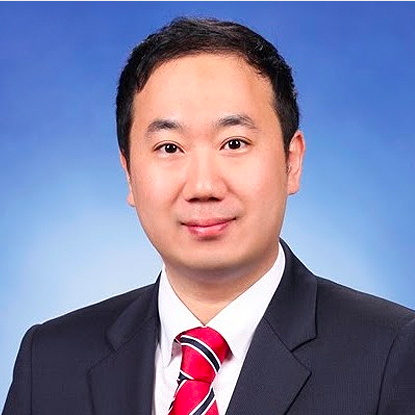
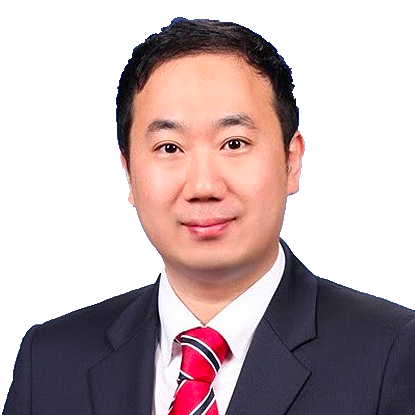
members, details

diff --git a/sub2.html b/sub2.html
@@ -13,6 +13,7 @@
     <link rel="stylesheet" href="https://cdnjs.cloudflare.com/ajax/libs/font-awesome/5.8.2/css/all.min.css" />
     <script src="https://cdnjs.cloudflare.com/ajax/libs/aos/2.3.4/aos.js"></script>
     <link rel="stylesheet" href="https://cdnjs.cloudflare.com/ajax/libs/aos/2.3.4/aos.css" />
+    <link rel="icon" href="images/favicon.png">
     <title>라온데이터</title>
 
     <script>
@@ -41,8 +42,10 @@
                     <div>
                         <img src="./images/team1.png" alt="">
                         <div class="segment">
-                            <p>Seong Choi<br /><span>CEO</span></p>
-                            <p>성균관대 석사과정</p>
+                            <p>Seong Choi</p>
+                            <p>CEO<br />
+                                AI for Medical Imaging<br />
+                                공학석사</p>
                             <div class="arrow">
                                 <img src="./images/arrow.png" alt="">
                             </div>
@@ -51,10 +54,12 @@
                         </div>
                     </div>
                     <div>
-                        <img src="./images/team2.png" alt="">
+                        <img src="./images/jinyoung.png" alt="">
                         <div class="segment">
-                            <p>Jinyoung Han<br /><span>CTO</span></p>
-                            <p>인공지능 기술 총괄<br />성균관대 교수</p>
+                            <p>Jinyoung Han</p>
+                            <p>CTO<br />
+                                인공지능 기술 총괄<br />
+                                성균관대 교수</p>
                             <div class="arrow">
                                 <img src="./images/arrow.png" alt="">
                             </div>
@@ -66,8 +71,8 @@
                     <div>
                         <img src="./images/team3.png" alt="">
                         <div class="segment">
-                            <p>Jeewoo Yoon<br /><span>AI Scientist</span></p>
-                            <p>성균관대 박사과정</p>
+                            <p>Jeewoo Yoon</p>
+                            <p>AI Scientist<br />Multimodal Learning<br />인공지능 기술 연구/개발</p>
                             <div class="arrow">
                                 <img src="./images/arrow.png" alt="">
                             </div>
@@ -75,39 +80,43 @@
                         </div>
                     </div>
                     <div>
-                        <img src="./images/team4.png" alt="">
+                        <img src="./images/kiwoong.png" alt="">
                         <div class="segment">
-                            <p>Honggeun Ji<br /><span>AI Engineer</span></p>
-                            <p>컴퓨터 비전(CV)</p>
+                            <p>Kiwoong Kim</p>
+                            <p>Lead SW Engineer<br />Full Stack<br />SW 개발 책임</p>
                         </div>
                     </div>
                 </div>
                 <div class="flex_box">
                     <div>
-                        <img src="./images/team5.png" alt="">
+                        <img src="./images/junseo.png" alt="">
                         <div class="segment">
-                            <p>Jina Kim<br /><span>AI Scientist</span></p>
-                            <p>자연어 처리(NLP)</p>
+                            <p>Junseo Ko</p>
+                            <p>AI Engineer<br />Computer Vision<br />인공지능 기술 개발</p>
+                            <div class="arrow">
+                                <img src="./images/arrow.png" alt="">
+                            </div>
+                            <a href="https://github.com/KorKite"></a>
                         </div>
                     </div>
                     <div>
-                        <img src="./images/team6.png" alt="">
+                        <img src="./images/yongmo.png" alt="">
                         <div class="segment">
-                            <p>Jisu Kim<br /><span>AI Engineer</span></p>
-                            <p>자연어 처리(NLP)<br />
-                                데이터 심층분석 및<br />
-                                딥러닝 모델 개발</p>
+                            <p>Yongmo Ku</p>
+                            <p>SW Engineer<br />Unity<br />클라이언트 개발</p>
                         </div>
                     </div>
                 </div>
                 <div class="flex_box">
                     <div>
-                        <img src="./images/team7.png" alt="">
+                        <img src="./images/taihu.png" alt="">
                         <div class="segment">
-                            <p>Jisu Kim<br /><span>AI Engineer</span></p>
-                            <p>자연어 처리(NLP)<br />
-                                데이터 심층분석 및<br />
-                                딥러닝 모델 개발</p>
+                            <p>Taihu Li</p>
+                            <p>AI Engineer<br />Speech Synthesis<br />인공지능 기술 개발</p>
+                            <div class="arrow">
+                                <img src="./images/arrow.png" alt="">
+                            </div>
+                            <a href="https://sites.google.com/view/taehoo-lee"></a>
                         </div>
                     </div>
                 </div>
@@ -120,15 +129,15 @@
                     <div>
                         <img src="./images/Advisors1.png" alt="">
                         <div class="segment">
-                            <p>Eunil Park<br /><span>Human-AI<br />Interaction </span></p>
-                            <p>성균관대 교수</p>
+                            <p>Eunil Park</p>
+                            <p>Human-AI Interaction</br >성균관대 교수</p>
                         </div>
                     </div>
                     <div>
-                        <img src="./images/Advisors2.png" alt="">
+                        <img src="./images/Advisors4.png" alt="">
                         <div class="segment">
-                            <p>Angel Pobil<br /><span>Human-Robot<br />Interaction</span></p>
-                            <p>Prof. at Jaume I<br />University</p>
+                            <p>Daniel Duckjin Hwang</p>
+                            <p>AI for Ophthalmology<br />한길안과병원<br/>망막 센터장</p>
                         </div>
                     </div>
                 </div>
@@ -136,15 +145,15 @@
                     <div>
                         <img src="./images/Advisors3.png" alt="">
                         <div class="segment">
-                            <p>Jungseock Joo<br /><span>Computer Vision</span></p>
-                            <p>Prof. at UCLA</p>
+                            <p>Jungseock Joo</p>
+                            <p>Computer Vision<br />UCLA 교수</p>
                         </div>
                     </div>
                     <div>
-                        <img src="./images/Advisors4.png" alt="">
+                        <img src="./images/Advisors2.png" alt="">
                         <div class="segment">
-                            <p>Daniel Duckjin Hwang<br /><span>Medical AI</span></p>
-                            <p>한길 안과병원 데이터<br />센터장</p>
+                            <p>Angel Pobil</p>
+                            <p>Human-Robot Interaction<br />Jaume I University 교수</p>
                         </div>
                     </div>
                 </div>

diff --git a/index.html b/index.html
@@ -13,6 +13,8 @@
     <link rel="stylesheet" href="https://cdnjs.cloudflare.com/ajax/libs/font-awesome/5.8.2/css/all.min.css" />
     <script src="https://cdnjs.cloudflare.com/ajax/libs/aos/2.3.4/aos.js"></script>
     <link rel="stylesheet" href="https://cdnjs.cloudflare.com/ajax/libs/aos/2.3.4/aos.css" />
+    <link rel="icon" href="images/favicon.png">
+
     <title>라온데이터</title>
 
     <script>
@@ -36,11 +38,11 @@
                     <li><a href="./index.html"><img src="./images/home.png" alt="홈" width="20"></a></li>
                 </ul>
                 <ul class="m_head_list">
-                    <li>
+                    <!-- <li>
                         <a href="./sub1.html">
                             <p>인공지능 컨설팅</p>
                         </a>
-                    </li>
+                    </li> -->
                     <li>
                         <a href="./sub2.html">
                             <p>팀</p>
@@ -139,7 +141,7 @@
             <div class="menu_box">
                 <ul class="l_menu">
                     <li><a href="./index.html">홈</a></li>
-                    <li><a href="./sub1.html">인공지능 컨설팅</a></li>
+                    <!-- <li><a href="./sub1.html">인공지능 컨설팅</a></li> -->
                     <li><a href="./sub2.html">팀</a></li>
                     <li><a href="./sub3.html">고객사</a></li>
                     <li><a href="./sub4.html">협력기관</a></li>
@@ -230,15 +232,15 @@
             <div class="left_content">
                 <div class="txt_center">
                     <h4 class="blue_g">
-                        Our Contact
+                        Contact Us
                     </h4>
                 </div>
                 <h5>라온데이터 인공지능 컨설팅 문의하기</h5>
-                <a href="./sub7.html">문의 바로가기</a>
+                <a href="mailto:contact@raondata.ai">문의 바로가기</a>
             </div>
             <div class="right_content">
                 <img src="./images/send.png" alt="문의하기">
-                <p>seongchoi@raondata.ai</p>
+                <p>contact@raondata.ai</p>
             </div>
         </div>
     </div>

diff --git a/header.html b/header.html
@@ -7,11 +7,11 @@
                 <li><a href="./index.html"><img src="./images/home.png" alt="홈" width="20"></a></li>
             </ul>
             <ul class="m_head_list">
-                <li>
+                <!-- <li>
                     <a href="./sub1.html">
                         <p>인공지능 컨설팅</p>
                     </a>
-                </li>
+                </li> -->
                 <li>
                     <a href="./sub2.html">
                         <p>팀</p>
@@ -109,7 +109,7 @@
         <div class="menu_box">
             <ul class="l_menu">
                 <li><a href="./index.html">홈</a></li>
-                <li><a href="./sub1.html">인공지능 컨설팅</a></li>
+                <!-- <li><a href="./sub1.html">인공지능 컨설팅</a></li> -->
                 <li><a href="./sub2.html">팀</a></li>
                 <li><a href="./sub3.html">고객사</a></li>
                 <li><a href="./sub4.html">협력기관</a></li>

diff --git a/sub4.html b/sub4.html
@@ -13,6 +13,7 @@
     <link rel="stylesheet" href="https://cdnjs.cloudflare.com/ajax/libs/font-awesome/5.8.2/css/all.min.css" />
     <script src="https://cdnjs.cloudflare.com/ajax/libs/aos/2.3.4/aos.js"></script>
     <link rel="stylesheet" href="https://cdnjs.cloudflare.com/ajax/libs/aos/2.3.4/aos.css" />
+    <link rel="icon" href="images/favicon.png">
     <title>라온데이터</title>
     <script>
         $(function(){

diff --git a/sub1.html b/sub1.html
@@ -13,6 +13,7 @@
     <link rel="stylesheet" href="https://cdnjs.cloudflare.com/ajax/libs/font-awesome/5.8.2/css/all.min.css" />
     <script src="https://cdnjs.cloudflare.com/ajax/libs/aos/2.3.4/aos.js"></script>
     <link rel="stylesheet" href="https://cdnjs.cloudflare.com/ajax/libs/aos/2.3.4/aos.css" />
+    <link rel="icon" href="images/favicon.png">
     <title>라온데이터</title>
 
     <script>

diff --git a/sub3.html b/sub3.html
@@ -13,6 +13,7 @@
     <link rel="stylesheet" href="https://cdnjs.cloudflare.com/ajax/libs/font-awesome/5.8.2/css/all.min.css" />
     <script src="https://cdnjs.cloudflare.com/ajax/libs/aos/2.3.4/aos.js"></script>
     <link rel="stylesheet" href="https://cdnjs.cloudflare.com/ajax/libs/aos/2.3.4/aos.css" />
+    <link rel="icon" href="images/favicon.png">
     <title>라온데이터</title>
 
     <script>

diff --git a/sub5.html b/sub5.html
@@ -13,6 +13,7 @@
     <link rel="stylesheet" href="https://cdnjs.cloudflare.com/ajax/libs/font-awesome/5.8.2/css/all.min.css" />
     <script src="https://cdnjs.cloudflare.com/ajax/libs/aos/2.3.4/aos.js"></script>
     <link rel="stylesheet" href="https://cdnjs.cloudflare.com/ajax/libs/aos/2.3.4/aos.css" />
+    <link rel="icon" href="images/favicon.png">
     <title>라온데이터</title>
 
     <script>

diff --git a/sub6.html b/sub6.html
@@ -13,6 +13,7 @@
     <link rel="stylesheet" href="https://cdnjs.cloudflare.com/ajax/libs/font-awesome/5.8.2/css/all.min.css" />
     <script src="https://cdnjs.cloudflare.com/ajax/libs/aos/2.3.4/aos.js"></script>
     <link rel="stylesheet" href="https://cdnjs.cloudflare.com/ajax/libs/aos/2.3.4/aos.css" />
+    <link rel="icon" href="images/favicon.png">
     <title>라온데이터</title>
 
     <script>

diff --git a/sub7.html b/sub7.html
@@ -13,6 +13,7 @@
     <link rel="stylesheet" href="https://cdnjs.cloudflare.com/ajax/libs/font-awesome/5.8.2/css/all.min.css" />
     <script src="https://cdnjs.cloudflare.com/ajax/libs/aos/2.3.4/aos.js"></script>
     <link rel="stylesheet" href="https://cdnjs.cloudflare.com/ajax/libs/aos/2.3.4/aos.css" />
+    <link rel="icon" href="images/favicon.png">
     <title>라온데이터</title>
 </head>
 

diff --git a/css/style.css b/css/style.css
@@ -1675,8 +1675,8 @@ input[type=submit] {
         width: 60%;
     }
 
-    .sub_ct2 .team .inner_1280 .flex_box > div > img {
-        width: 20%;
+    .sub_ct2 .team .flex_box > div > img {
+        width: 100%;
     }
 
     .sub_ct2 .team .flex_box>div>.segment {
